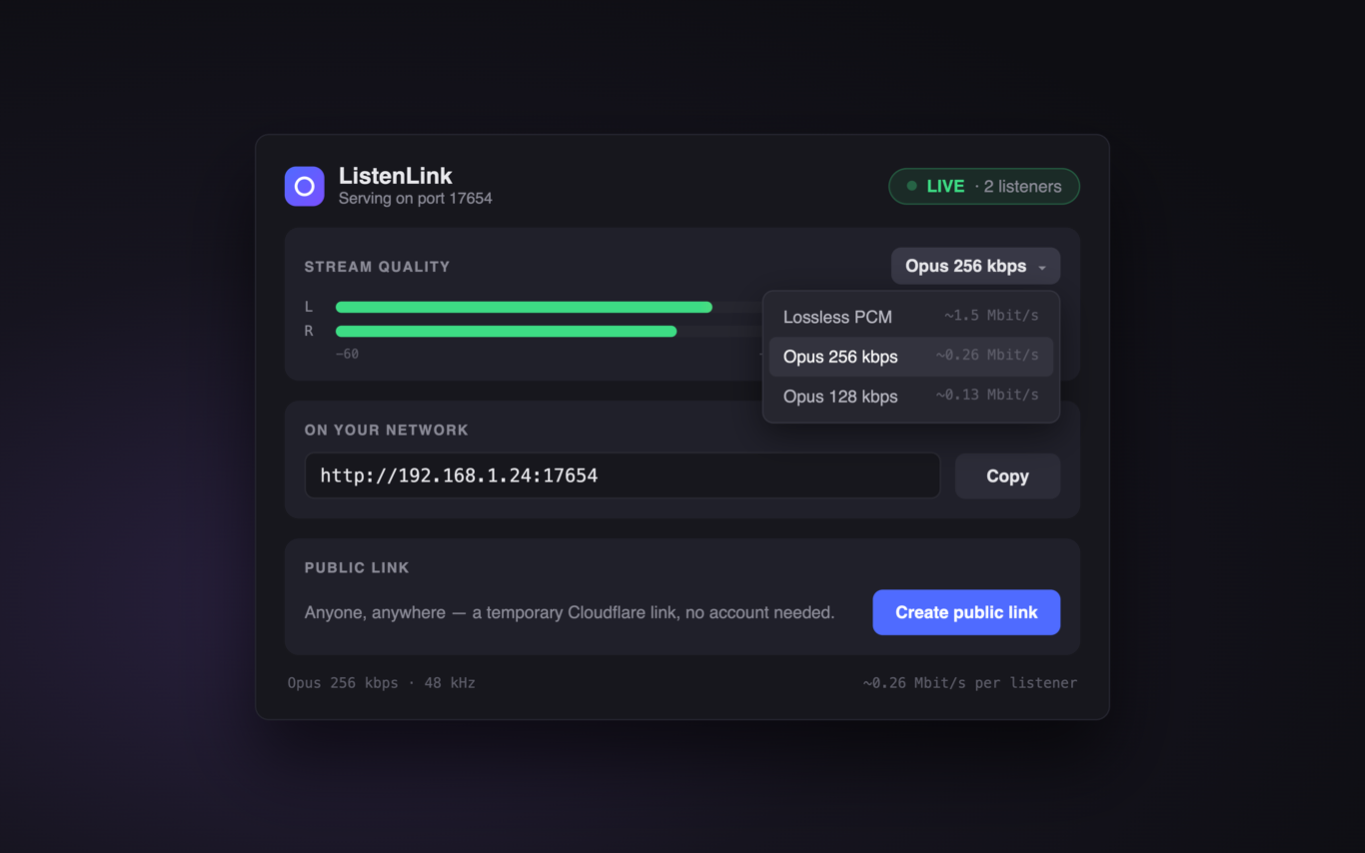
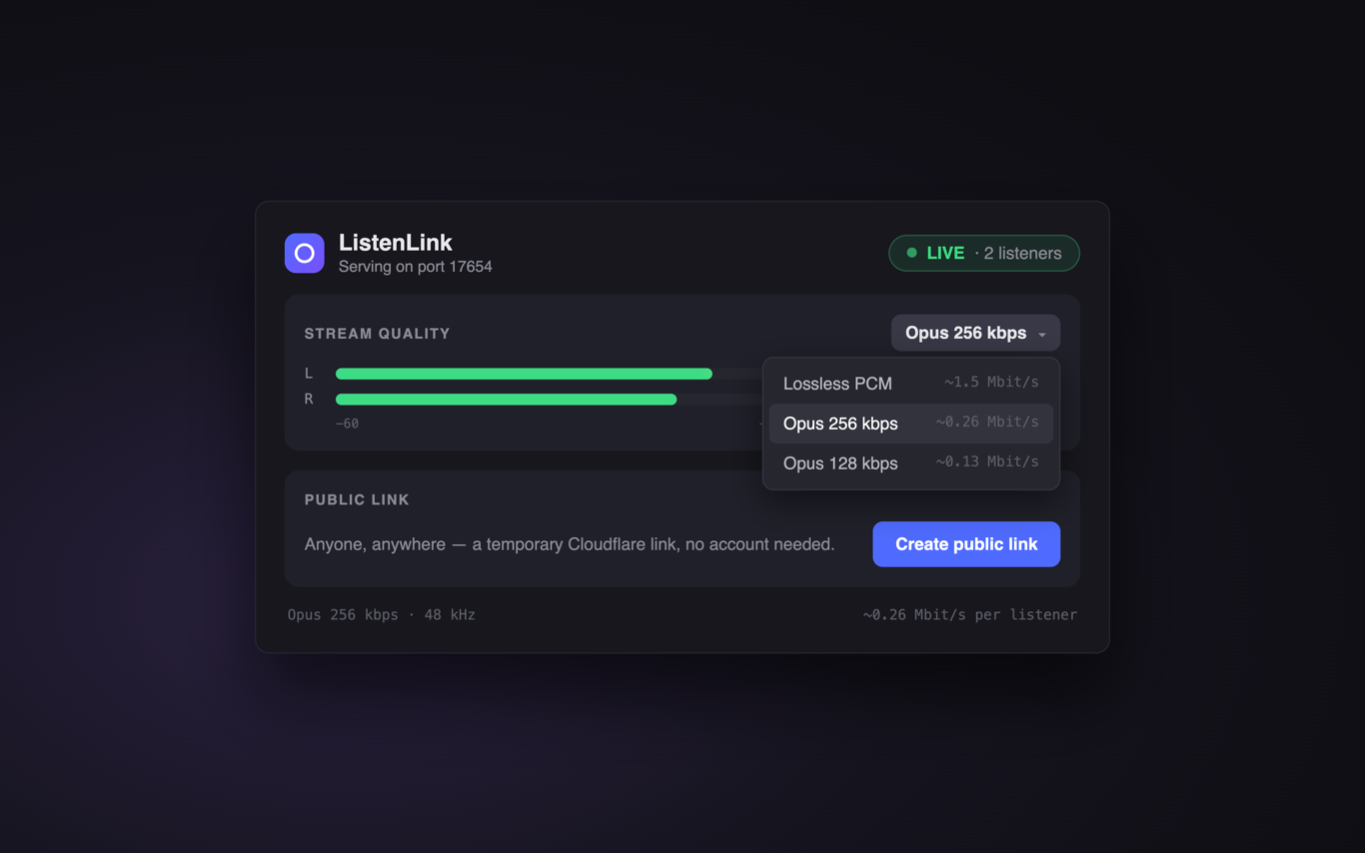
v2 screenshots (local URL feature removed); align copy

diff --git a/listenlink/index.html b/listenlink/index.html
@@ -395,7 +395,7 @@
     </div>
     <figure class="screen" style="margin:0;">
       <button class="zoom" type="button" data-full="img/01-live@2x.png" aria-label="Enlarge screenshot: the full ListenLink interface">
-        <img src="img/01-live.png" srcset="img/01-live.png 1600w, img/01-live@2x.png 2560w" sizes="(max-width: 1128px) 100vw, 1032px" alt="The ListenLink plugin window: stream quality selector with live level meters, a copyable network link, and a Create Public Link button, shown live with 3 listeners." width="1600" height="1000">
+        <img src="img/01-live.png" srcset="img/01-live.png 1600w, img/01-live@2x.png 2560w" sizes="(max-width: 1128px) 100vw, 1032px" alt="The ListenLink plugin window: stream quality selector with live level meters and a Create Public Link button, shown live with 3 listeners." width="1600" height="1000">
       </button>
     </figure>
     <div class="screen-caption mono" aria-hidden="true">
@@ -417,8 +417,8 @@
       </div>
       <div class="step">
         <h3 class="display"><span class="n mono">02</span> Create a link</h3>
-        <p>Share on your network for anyone on the same Wi-Fi, or create a public link that
-           works anywhere. Copy, send.</p>
+        <p>One click spins up a secure public link that works anywhere — no account,
+           no port forwarding. Copy, send.</p>
       </div>
       <div class="step">
         <h3 class="display"><span class="n mono">03</span> They press play</h3>
@@ -484,7 +484,7 @@
           <tr><th scope="row">Listener</th><td>Any modern browser — nothing to install. <span class="dim">Typical latency well under half a second plus network.</span></td></tr>
           <tr><th scope="row">Stream quality</th><td class="mono">Lossless PCM &nbsp;~1.5 Mbit/s<br>Opus 256 kbps &nbsp;~0.26 Mbit/s<br>Opus 128 kbps &nbsp;~0.13 Mbit/s</td></tr>
           <tr><th scope="row">Audio</th><td>48 kHz streaming; other project rates resampled internally. <span class="dim">Quality is saved with your project.</span></td></tr>
-          <tr><th scope="row">Public links</th><td>Free Cloudflare quick tunnel, built in — temporary URL, new one each session. LAN links work out of the box.</td></tr>
+          <tr><th scope="row">Public links</th><td>Free Cloudflare quick tunnel, built in — temporary URL, new one each session.</td></tr>
           <tr><th scope="row">License</th><td>$5 · Open source (AGPL-3.0) — buy the ready-made installer, or build it yourself from the public source</td></tr>
         </tbody>
       </table>

diff --git a/index.html.js b/index.html.js
@@ -1,0 +1,29 @@
+
+  var lightbox = document.getElementById('lightbox');
+  var lbImg = document.getElementById('lb-img');
+  var lbClose = document.getElementById('lb-close');
+  var lastTrigger = null;
+
+  function openLightbox(trigger) {
+    var img = trigger.querySelector('img');
+    lbImg.src = trigger.dataset.full || img.src;
+    lbImg.alt = img.alt;
+    lightbox.hidden = false;
+    document.body.style.overflow = 'hidden';
+    lastTrigger = trigger;
+    lbClose.focus();
+  }
+  function closeLightbox() {
+    lightbox.hidden = true;
+    lbImg.src = '';
+    document.body.style.overflow = '';
+    if (lastTrigger) lastTrigger.focus();
+  }
+
+  document.querySelectorAll('.zoom').forEach(function (z) {
+    z.addEventListener('click', function () { openLightbox(z); });
+  });
+  lightbox.addEventListener('click', closeLightbox);
+  document.addEventListener('keydown', function (e) {
+    if (e.key === 'Escape' && !lightbox.hidden) closeLightbox();
+  });
